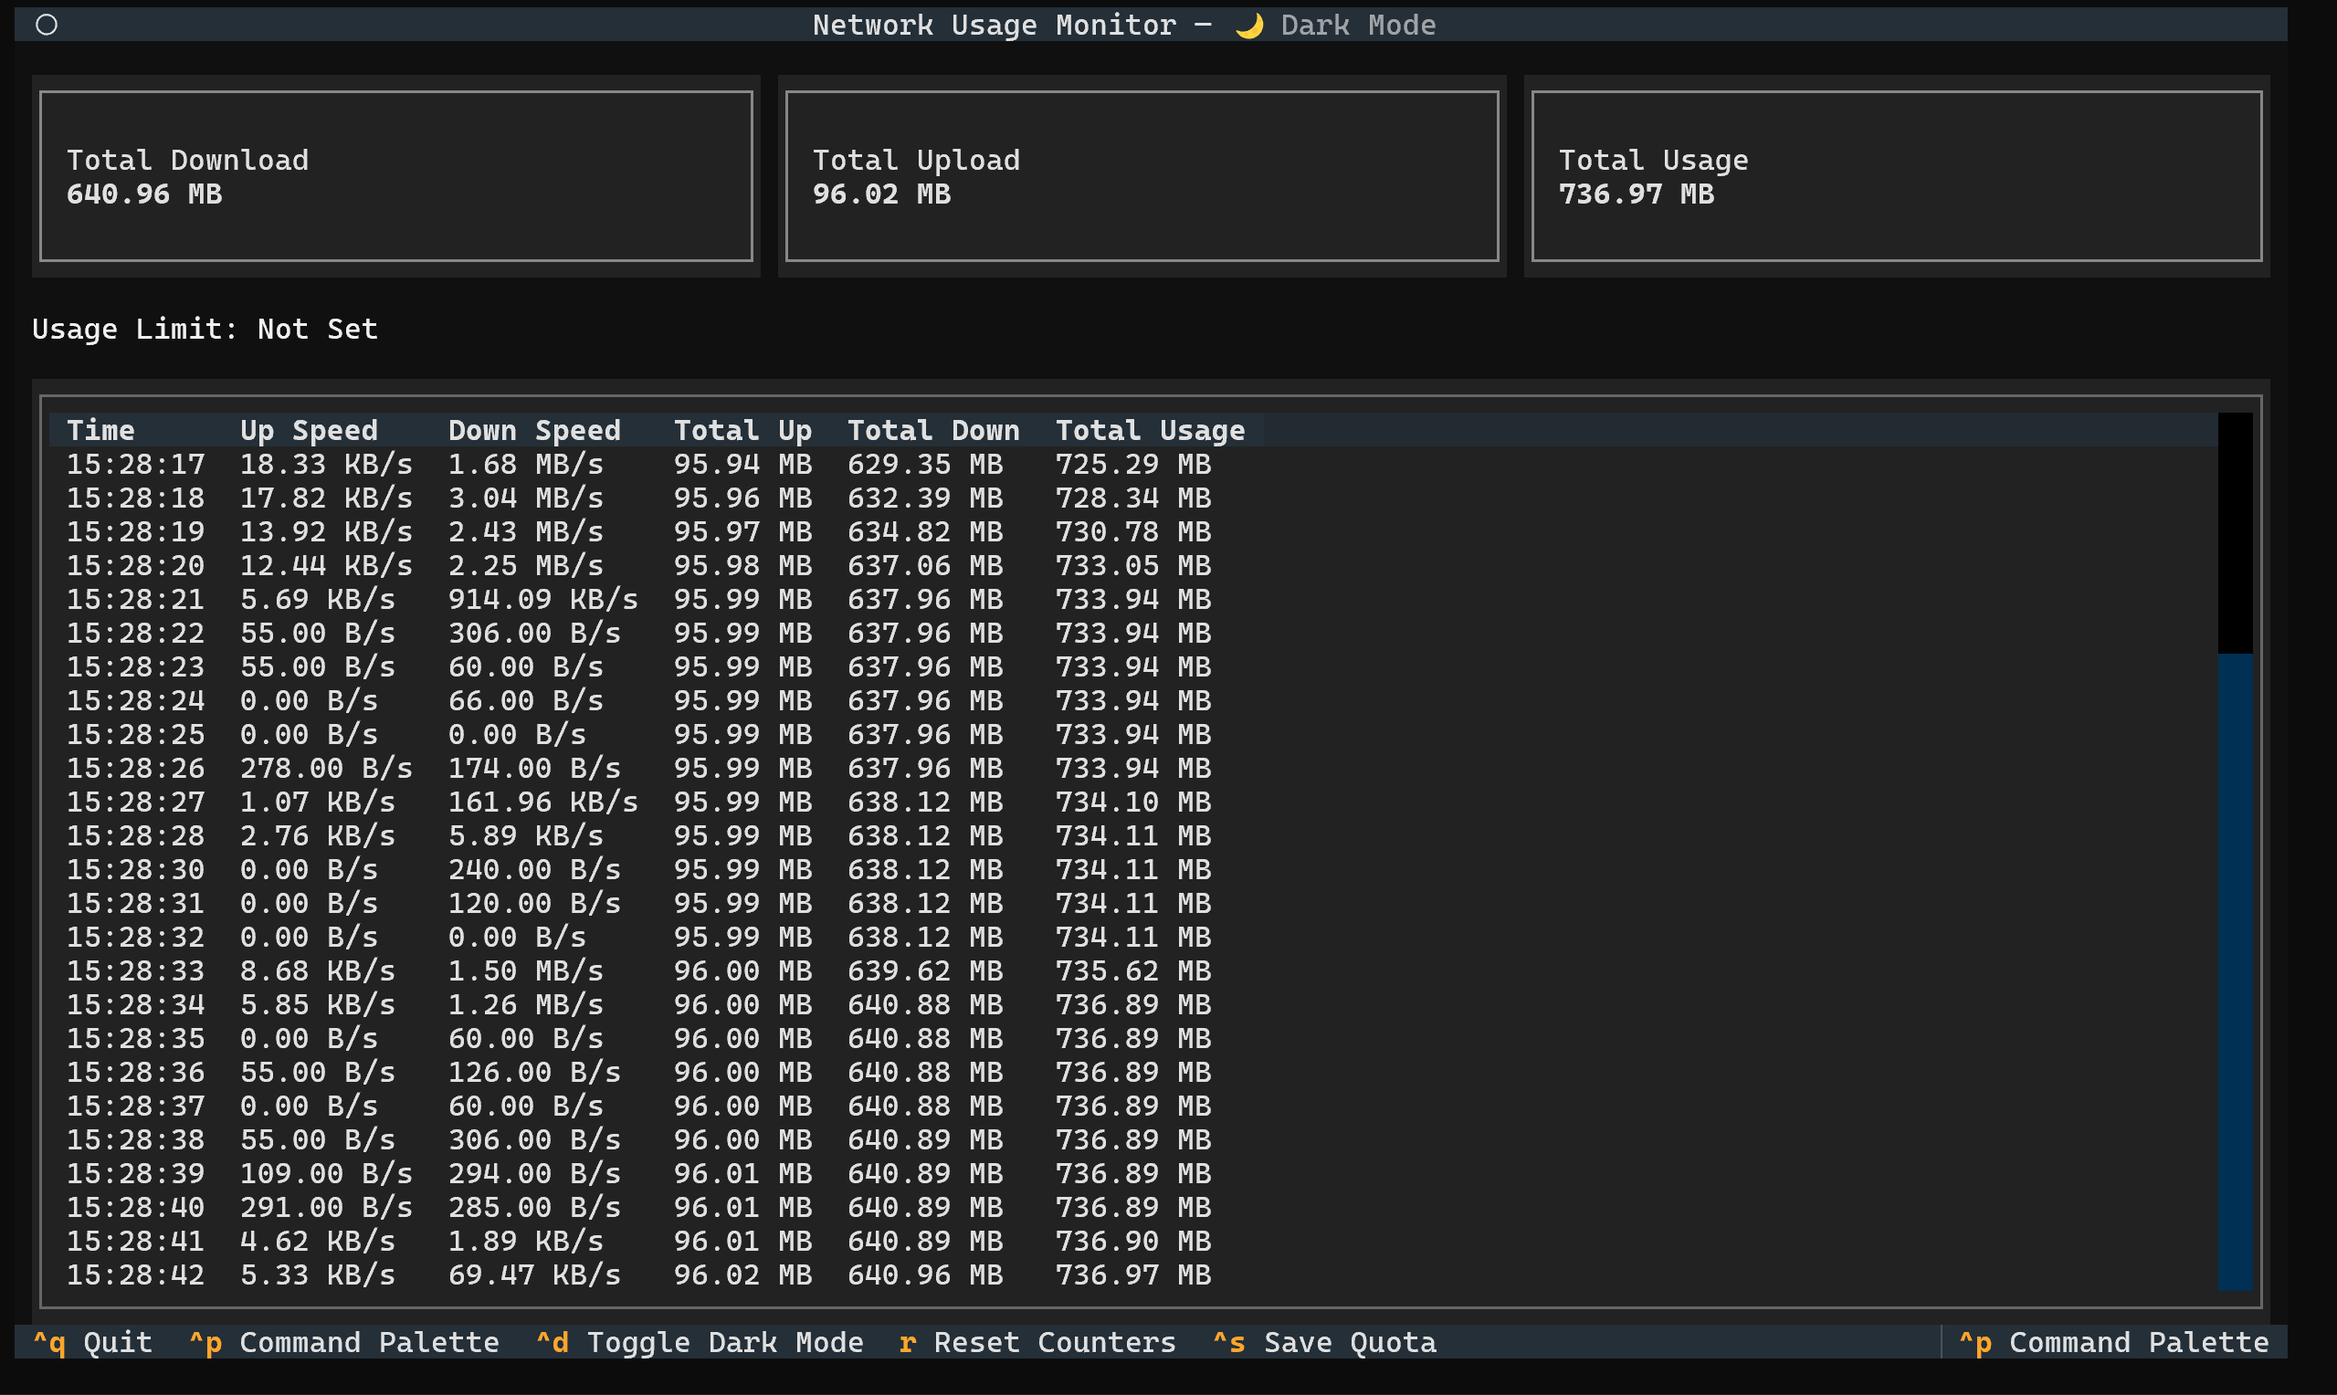
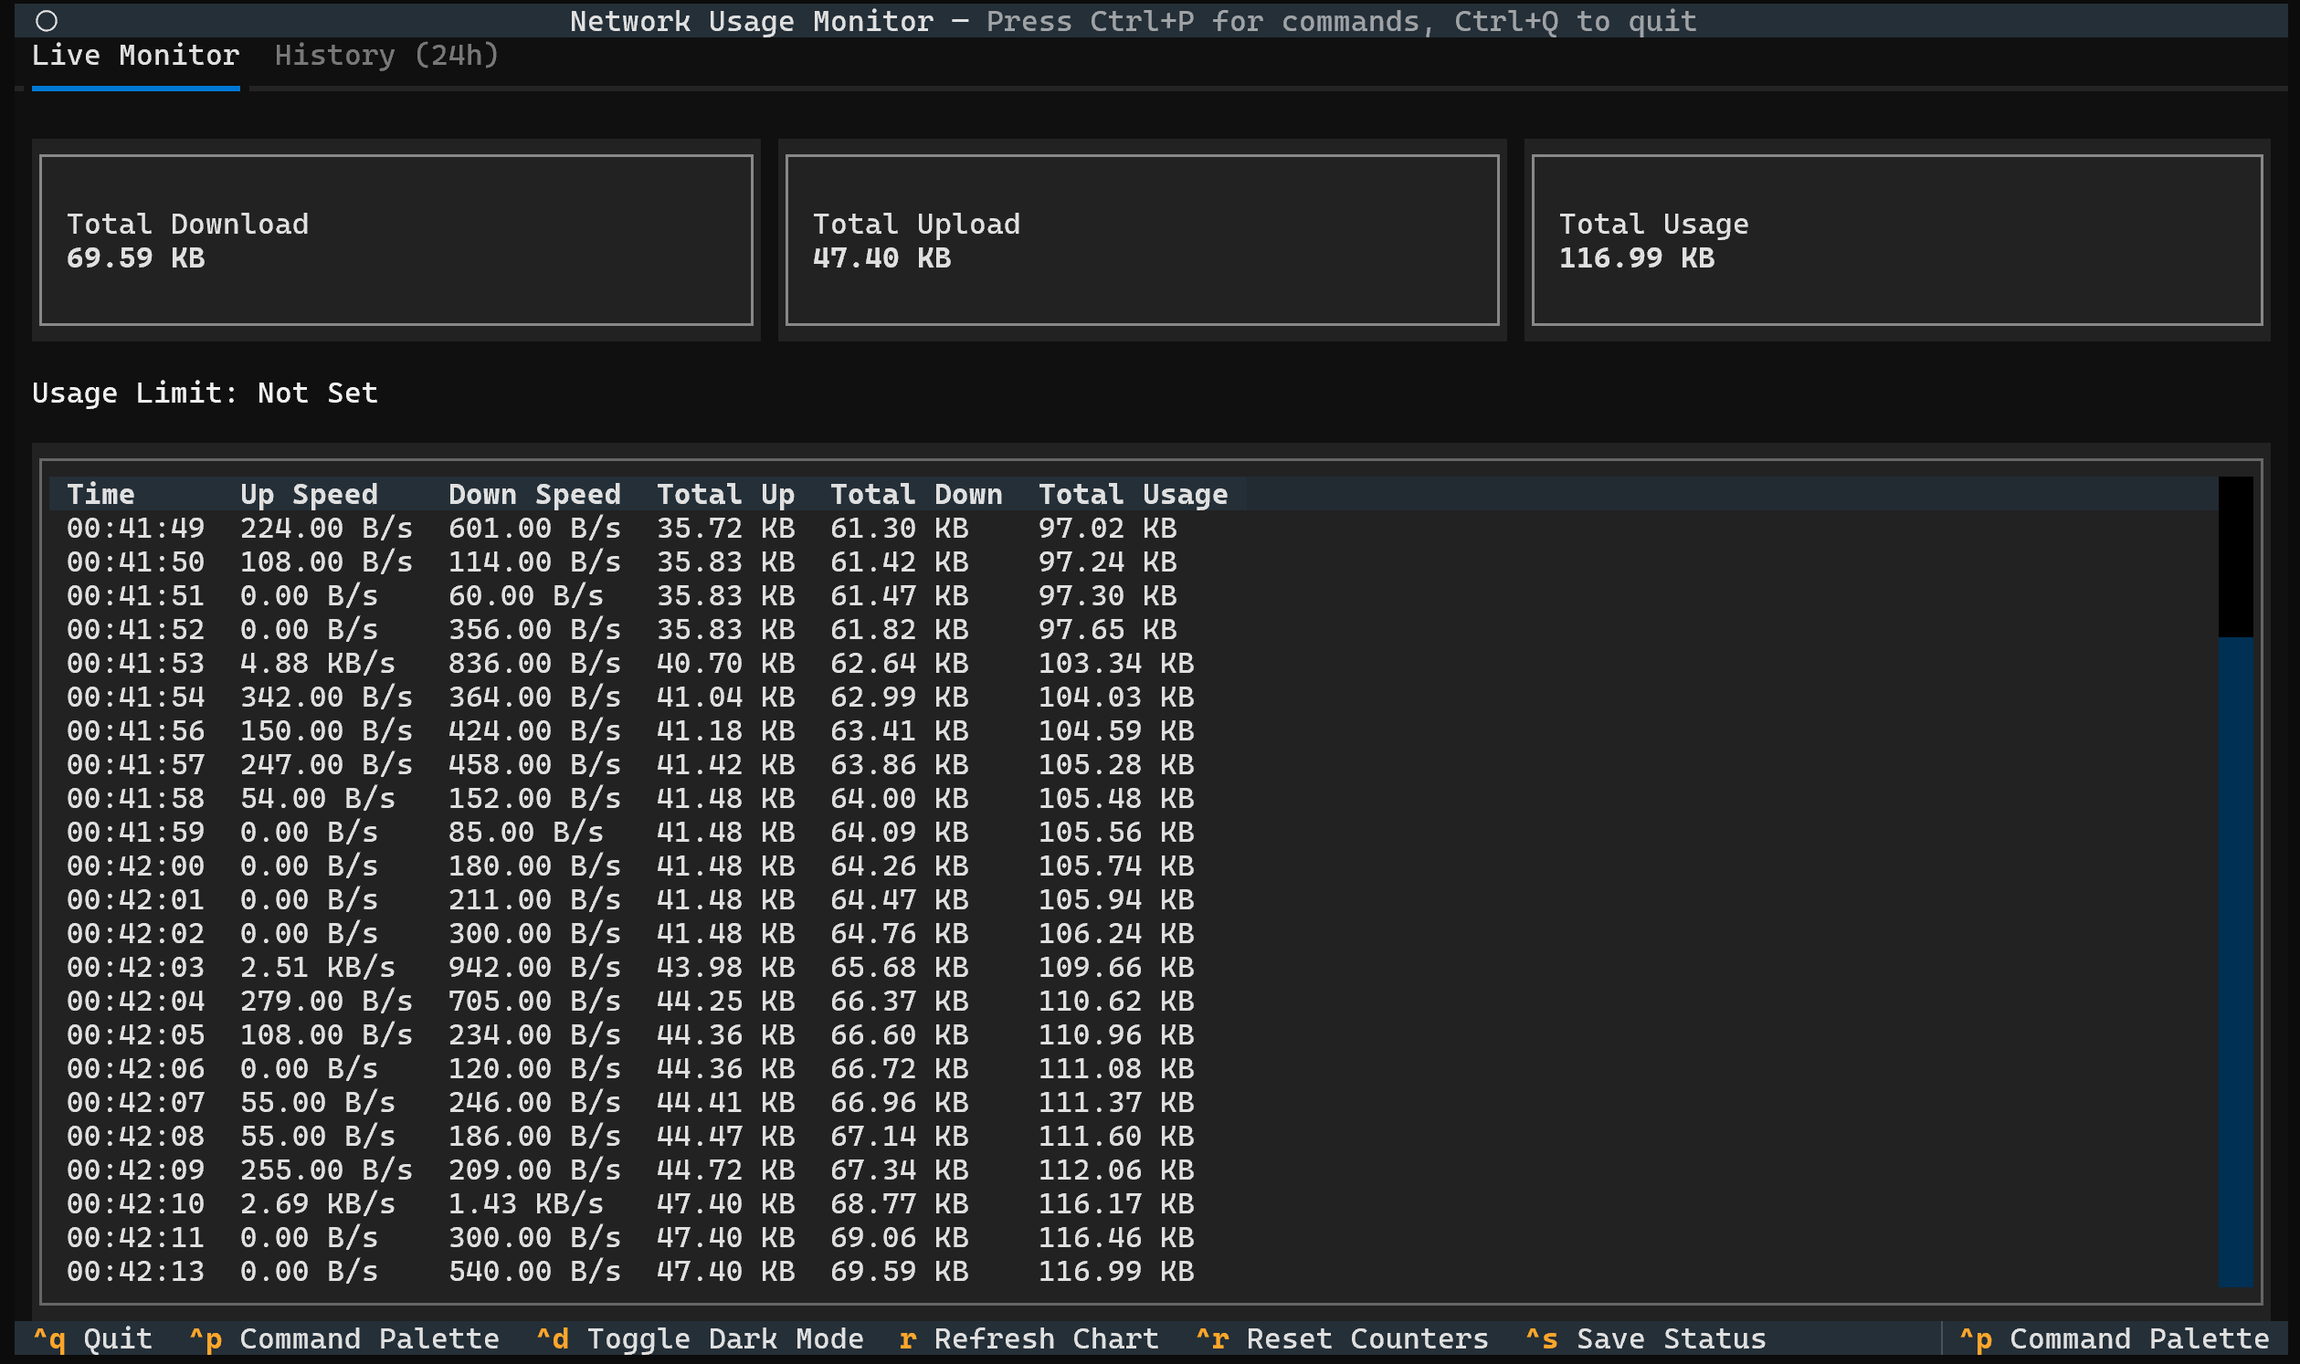
Feat & Fix: Add full documentation site & bump version to 1.1.1
- Add MkDocs configuration (mkdocs.yml) and source files (index, install, usage).
- Add GitHub Actions workflow (.github/workflows/docs.yml) to auto-deploy docs.
- Update README.md with new content and updated asset references.
- Update assets/demo.png with the latest TUI screenshot.
- Bump package version to 1.1.1 in pyproject.toml.
- Enhanced the custom file logging information.

diff --git a/src/netwatch/tui.py b/src/netwatch/tui.py
@@ -1,5 +1,6 @@
 import argparse
 import sys
+import os
 from textwrap import dedent
 
 from textual.app import App, ComposeResult
@@ -23,7 +24,7 @@ class NetMonitorTUI(App):
         ("ctrl+d", "toggle_dark", "Toggle Dark Mode"),
         ("r", "refresh_chart", "Refresh Chart"),
         ("ctrl+r", "reset_counters", "Reset Counters"),
-        ("ctrl+s", "save_quota", "Save Quota"),
+        ("ctrl+s", "save_quota", "Save Status"),
         ("ctrl+q", "quit", "Quit"),
     ]
 
@@ -108,6 +109,28 @@ class NetMonitorTUI(App):
         self.alert_80_sent = False
         self.alert_100_sent = False
 
+    def _log_event(self, message: str):
+        """Writes a timestamped event message to the log file."""
+        if self.log_file:
+            from datetime import datetime
+            timestamp = datetime.now().strftime("%Y-%m-%d %H:%M:%S")
+            try:
+                with open(self.log_file, "a") as f:
+                    f.write(f"[{timestamp}] [EVENT] {message}\n")
+            except Exception as e:
+                self.query_one("#error_box").update(f"ERROR: Failed to write to log file: {e}")
+
+    def _log_error(self, message: str):
+        """Writes a timestamped error message to the log file."""
+        if self.log_file:
+            from datetime import datetime
+            timestamp = datetime.now().strftime("%Y-%m-%d %H:%M:%S")
+            try:
+                with open(self.log_file, "a") as f:
+                    f.write(f"[{timestamp}] [ERROR] {message}\n")
+            except Exception as e:
+                self.query_one("#error_box").update(f"ERROR: Failed to write to log file: {e}")
+
     def compose(self) -> ComposeResult:
         yield Header()
         
@@ -137,6 +160,9 @@ class NetMonitorTUI(App):
 
     def on_mount(self):
         """Executed when TUI is ready."""
+        if self.log_file and os.path.exists(self.log_file):
+            self._log_event("SESSION STARTED")
+
         init_db()
         up, down = get_historical_totals()
         
@@ -184,8 +210,10 @@ class NetMonitorTUI(App):
     def _process_data_packet(self, data: dict):
         if "error" in data:
             try:
+                error_message = data["error"]
+                self._log_error(error_message)
                 box = self.query_one("#error_box")
-                box.update("ERROR: " + data["error"])
+                box.update("ERROR: " + error_message)
                 box.styles.display = "block"
             except NoMatches:
                 pass
@@ -238,28 +266,35 @@ class NetMonitorTUI(App):
                 bar = self.query_one(ProgressBar)
                 bar.progress = new_total_usage
 
+                if not self.alert_80_sent and not self.alert_100_sent:
+                    bar.styles.color = "#00c853" if not self.dark else "#64dd17"
+
                 if new_total_usage >= 0.8 * self.limit_bytes and not self.alert_80_sent:
                     self.alert_80_sent = True
                     bar.styles.color = "yellow"
                     self.sub_title = "⚠ 80% of limit reached!"
+                    self._log_event("80% of data limit reached.")
                     try:
                         await self.notifier.send(
                             title="Netwatch: 80% Usage Warning",
                             message=f"You have used {get_size(new_total_usage)}."
                         )
                     except Exception as e:
+                        self._log_error(f"Failed to send 80% notification: {e}")
                         print(f"[Notification Error] {e}", file=sys.stderr)
 
                 if new_total_usage >= self.limit_bytes and not self.alert_100_sent:
                     self.alert_100_sent = True
                     bar.styles.color = "red"
                     self.sub_title = "🚨 Data limit exceeded!"
+                    self._log_event("100% of data limit reached.")
                     try:
                         await self.notifier.send(
                             title="Netwatch: Data Limit Exceeded!",
                             message=f"You have exceeded your {get_size(self.limit_bytes)} data limit."
                         )
                     except Exception as e:
+                        self._log_error(f"Failed to send 100% notification: {e}")
                         print(f"[Notification Error] {e}", file=sys.stderr)
         except NoMatches:
             pass
@@ -277,6 +312,7 @@ class NetMonitorTUI(App):
         except NoMatches:
             pass
         except Exception as e:
+            self._log_error(f"Error loading chart: {e}")
             try:
                 self.query_one("#chart_area").update(f"[red]Error loading chart:\n{e}[/red]")
             except:
@@ -294,6 +330,7 @@ class NetMonitorTUI(App):
 
     def action_reset_counters(self):
         """Resets all counters to 0, clears DB, and refreshes chart."""
+        self._log_event("Counters reset.")
         if self.monitor_thread:
             self.monitor_thread.stop()
             self.monitor_thread.join(timeout=1)
@@ -307,6 +344,12 @@ class NetMonitorTUI(App):
         self.alert_80_sent = False
         self.alert_100_sent = False
         
+        try:
+            bar = self.query_one(ProgressBar)
+            bar.styles.color = None
+        except NoMatches:
+            pass
+
         # Refresh chart to show empty state
         self.refresh_chart()
 
@@ -323,10 +366,24 @@ class NetMonitorTUI(App):
         self.sub_title = "✅ Data is auto-saved to SQLite"
 
 def main():
-    parser = argparse.ArgumentParser(description="Network Usage Monitor TUI")
-    parser.add_argument("-i", "--interface", default="all")
-    parser.add_argument("-l", "--limit")
-    parser.add_argument("--log")
+    parser = argparse.ArgumentParser(
+        description="A TUI-based network usage monitor.",
+        formatter_class=lambda prog: argparse.HelpFormatter(prog, max_help_position=35, width=100)
+    )
+    parser.add_argument(
+        "-i", "--interface", 
+        default="all",
+        help="Network interface to monitor (e.g., 'eth0', 'Wi-Fi')."
+    )
+    parser.add_argument(
+        "-l", "--limit",
+        help="Set a data usage limit (e.g., '10GB', '500MB')."
+    )
+    parser.add_argument(
+        "--log",
+        metavar="FILE",
+        help="Log all captured traffic to a specified file."
+    )
     args = parser.parse_args()
 
     app = NetMonitorTUI(

diff --git a/src/netwatch/monitor.py b/src/netwatch/monitor.py
@@ -84,6 +84,8 @@ class NetworkMonitorThread(threading.Thread):
                     log_traffic(up, down)
                 except Exception as e:
                     # Log silently to file to aid debugging without crashing TUI
+                    if not self.stop_event.is_set():
+                        self.callback({"error": f"DB Error: {e}"})
                     with open("netwatch_debug.log", "a") as f:
                         f.write(f"DB Error: {e}\n")
 

diff --git a/README.md b/README.md
@@ -15,20 +15,20 @@ A TUI (Text-based User Interface) for monitoring network usage in real-time, wit
 ## Features
 
 * **Real-time Dashboard:** A clean, terminal-based dashboard showing total download, upload, and current speeds.
-* **Persistent Quota:** Automatically saves your total usage, so you can track a monthly data cap across multiple sessions.
-
+* **Historical Analytics:** View your usage trends for the last 24 hours with a built-in interactive ASCII graph.
+* **Crash-Proof Database:** Powered by SQLite with Write-Ahead Logging (WAL) to ensure your data is safe even if your PC loses power.
 * **Data Cap Monitoring:** Set a data limit (e.g., `10GB`) and see your usage on a real-time progress bar.
 * **Desktop Notifications:** Get native desktop notifications when you hit 80% and 100% of your data limit.
 * **Live Activity Log:** An interactive, scrolling log of all network activity, updated every second.
 * **Command Palette & Dark Mode:** A modern TUI experience with a built-in command palette (`Ctrl+P`) and dark mode support (`Ctrl+D`).
-* **CSV Logging:** Optionally log all network traffic to a CSV file for later analysis.
-* **Cross-Platform:** Runs on Windows, macOS, and Linux.
+* **Auto-Migration:** Automatically detects and imports data from older versions (`quota.json`) so you never lose history.
+* **Cross-Platform:** Runs perfectly on Windows, macOS, and Linux.
 
 ---
 
 ## Installation
 
-`netwatchpy` is available on PyPI. All you need is Python 3.8+ and `pip`.
+Designed for Python 3.8+ and distributed on PyPI for simple installation with `pip`.
 
 ```bash
 pip install netwatchpy
@@ -86,19 +86,55 @@ netwatch -l "10GB"
 ```bash
 netwatch -i "Wi-Fi" --log "my_usage.csv"
 ```
+
 ---
+
 ### In-App Keybindings
 
 *   **`Ctrl+p`**: Open the Command Palette
     
 *   **`Ctrl+d`**: Toggle Dark / Light Mode
 
-*   **`Ctrl+s`**: Toggle Dark / Light Mode
-    
-*   **`r`**: Reset all counters back to zero
-    
+*   **`r`**: Refresh the history chart
+
+*   **`Ctrl+r`**: Reset all counters and history to zero
+
+*   **`Ctrl+s`**: Show save status (Data is auto-saved)
+
 *   **`Ctrl+q`**: Quit the application
     
+---
+
+### Understanding the Interface
+
+#### 1\. Live Monitor Tab
+
+This is the default view. It shows:
+
+*   **Summary Cards:** Total Upload, Download, and Combined Usage for the current session + history.
+    
+*   **Quota Bar:** If a limit was set, this bar fills up. It turns **Yellow at 80%** and **Red at 100%**.
+    
+*   **Live Table:** A scrolling list of network speeds recorded every second.
+    
+
+#### 2\. History Tab (24h)
+
+This tab visualizes your traffic over the last 24 hours.
+
+*   **Rows:** Each row represents a 1-hour block of time (e.g., 14:00 covers 2:00 PM to 2:59 PM).
+    
+*   **The Bar:**
+    
+    *   **Solid Block (█):** Represents Download traffic.
+        
+    *   **Shaded Block (░):** Represents Upload traffic.
+        
+*   **Total:** The text on the right shows the exact data transferred during that hour.
+    
+
+> **Tip:** If the graph looks outdated, press r to pull the latest stats from the database.
+
 ---
 
 Bug Reports & Feature Requests

diff --git a/docs/usage.md b/docs/usage.md
@@ -1,0 +1,76 @@
+# User Guide
+
+## Basic Usage
+
+To start monitoring all network interfaces immediately, simply run:
+
+```bash
+netwatch
+```
+
+This will launch the TUI. Netwatch runs in the background, logging your usage to its internal database every second.
+
+Command Line Arguments
+----------------------
+
+You can customize how Netwatch starts using flags.
+
+*   **\-i, --interface**: Monitor only one specific interface (e.g., Wi-Fi, Ethernet).
+    
+    *   Example: netwatch -i "Ethernet"
+        
+*   **\-l, --limit**: Set a usage quota. Supports KB, MB, GB, TB.
+    
+    *   Example: netwatch -l "50GB"
+        
+*   **\--log**: Export live session data to a CSV file.
+    
+    *   Example: netwatch --log "session.csv"
+        
+
+TUI Controls & Shortcuts
+------------------------
+
+Once inside the application, use these keyboard shortcuts to control the interface.
+
+*   **r** (Refresh Chart): Updates the graph in the "History" tab with the latest data.
+    
+*   **Ctrl+r** (Reset All): Wipes the database and resets all counters to 0. **Use with caution.**
+    
+*   **Ctrl+d** (Dark Mode): Toggles between Light and Dark themes.
+    
+*   **Ctrl+s** (Save Status): Displays a message confirming data is auto-saved.
+    
+*   **Ctrl+q** (Quit): Exits the application safely.
+    
+
+Understanding the Interface
+---------------------------
+
+### 1\. Live Monitor Tab
+
+This is the default view containing real-time stats:
+
+*   **Summary Cards:** Total Upload, Download, and Combined Usage for the current session + history.
+    
+*   **Quota Bar:** If a limit was set, this bar fills up. It turns **Yellow at 80%** and **Red at 100%**.
+    
+*   **Live Table:** A scrolling list of network speeds recorded every second.
+    
+
+### 2\. History Tab (24h)
+
+This tab visualizes your traffic over the last 24 hours.
+
+*   **Rows:** Each row represents a 1-hour block of time (e.g., 14:00 covers 2:00 PM to 2:59 PM).
+    
+*   **The Bar:**
+    
+    *   **Solid Block (█):** Represents **Download** traffic.
+        
+    *   **Shaded Block (░):** Represents **Upload** traffic.
+        
+*   **Total:** The text on the far right shows the exact data transferred during that hour.
+    
+
+> **Tip:** The graph does not auto-refresh to save resources. Press r whenever you want to see the latest bars.

diff --git a/docs/index.md b/docs/index.md
@@ -1,0 +1,24 @@
+# Netwatch TUI
+
+Welcome to the official documentation for **Netwatch**, the advanced CLI network monitor.
+
+Netwatch is a Python-based TUI (Text User Interface) application designed to help you track your internet usage, enforce data caps, and analyze traffic trends over time.
+
+![Demo](https://raw.githubusercontent.com/Destroyer795/Netwatchpy-package/main/assets/demo.png)
+
+## Key Features
+
+* **SQLite Backend:** Crash-proof history storage that survives unexpected shutdowns.
+* **Real-time Graphs:** Unicode-based visualization for 24-hour traffic analysis.
+* **Zero-Dependencies:** Runs anywhere Python runs without heavy graphical libraries.
+* **Smart Notifications:** Get alerted before you hit your data cap.
+* **Auto-Migration:** Seamlessly imports data from older versions (`quota.json`) so you never lose history.
+
+## Why Netwatch?
+
+Unlike complex system monitoring tools (like Task Manager or `htop`) which focus on *current* speed, Netwatch is focused on **bandwidth accounting**.
+
+It answers the simple but critical questions: 
+* *"How much data have I used today?"*
+* *"Did I hit my data cap yesterday?"*
+* *"Am I mostly downloading or uploading?"*

diff --git a/docs/install.md b/docs/install.md
@@ -1,0 +1,33 @@
+# Installation
+
+## Prerequisites
+
+*   **Python:** Version 3.8 or higher.
+    
+*   **OS:** Windows, macOS, or Linux.
+    
+
+**Option 1: Install via PyPI (Recommended)**
+
+The easiest way to install Netwatch is via pip. This will automatically install all required dependencies (like textual and psutil).
+
+pip install netwatchpy
+
+**Option 2: Install from Source**
+
+If you want the latest development version or want to contribute to the code:
+
+1.  Clone the repository: ```git clone https://github.com/Destroyer795/Netwatchpy-package.git```
+
+2. Go inside the folder ```cd Netwatchpy-package```
+    
+3.  Install in editable mode: ```pip install -e .```
+    
+
+**Upgrading**
+
+If you already have Netwatch installed and want to get the latest features (like the new SQLite database), run:
+
+`pip install --upgrade netwatchpy`
+
+> **Note on Migration:** If you are upgrading from an older version (v0.3.x), Netwatch will automatically detect your old quota.json file and migrate your history to the new SQLite database on the first launch. You won't lose any data!
